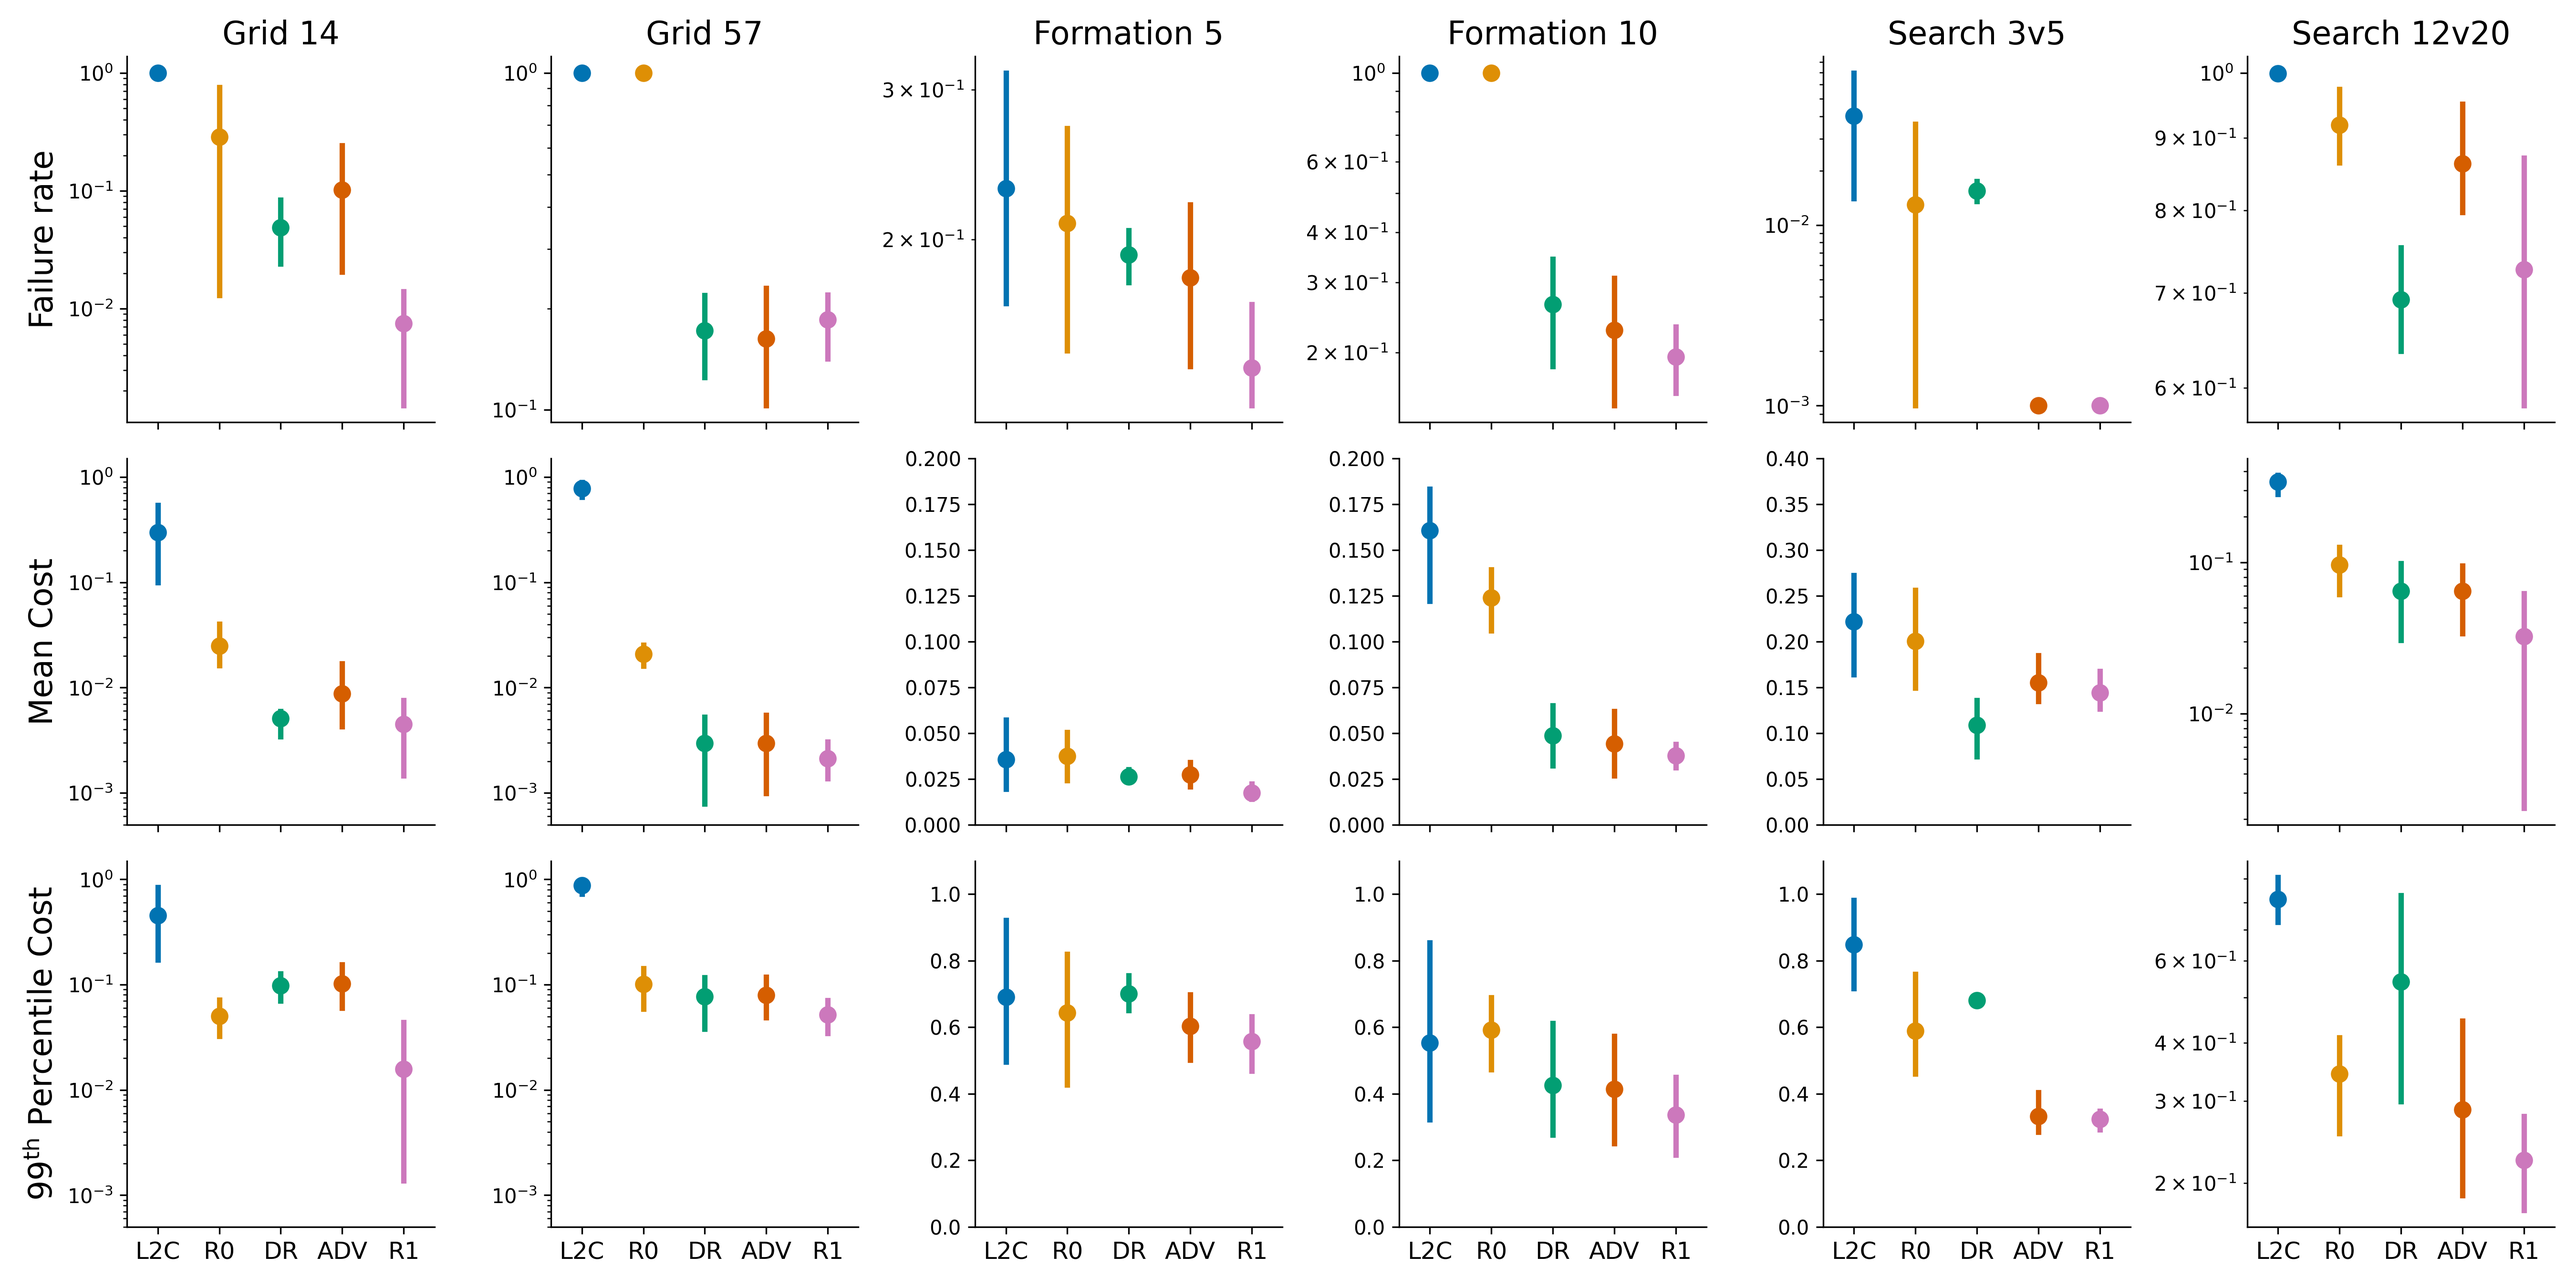
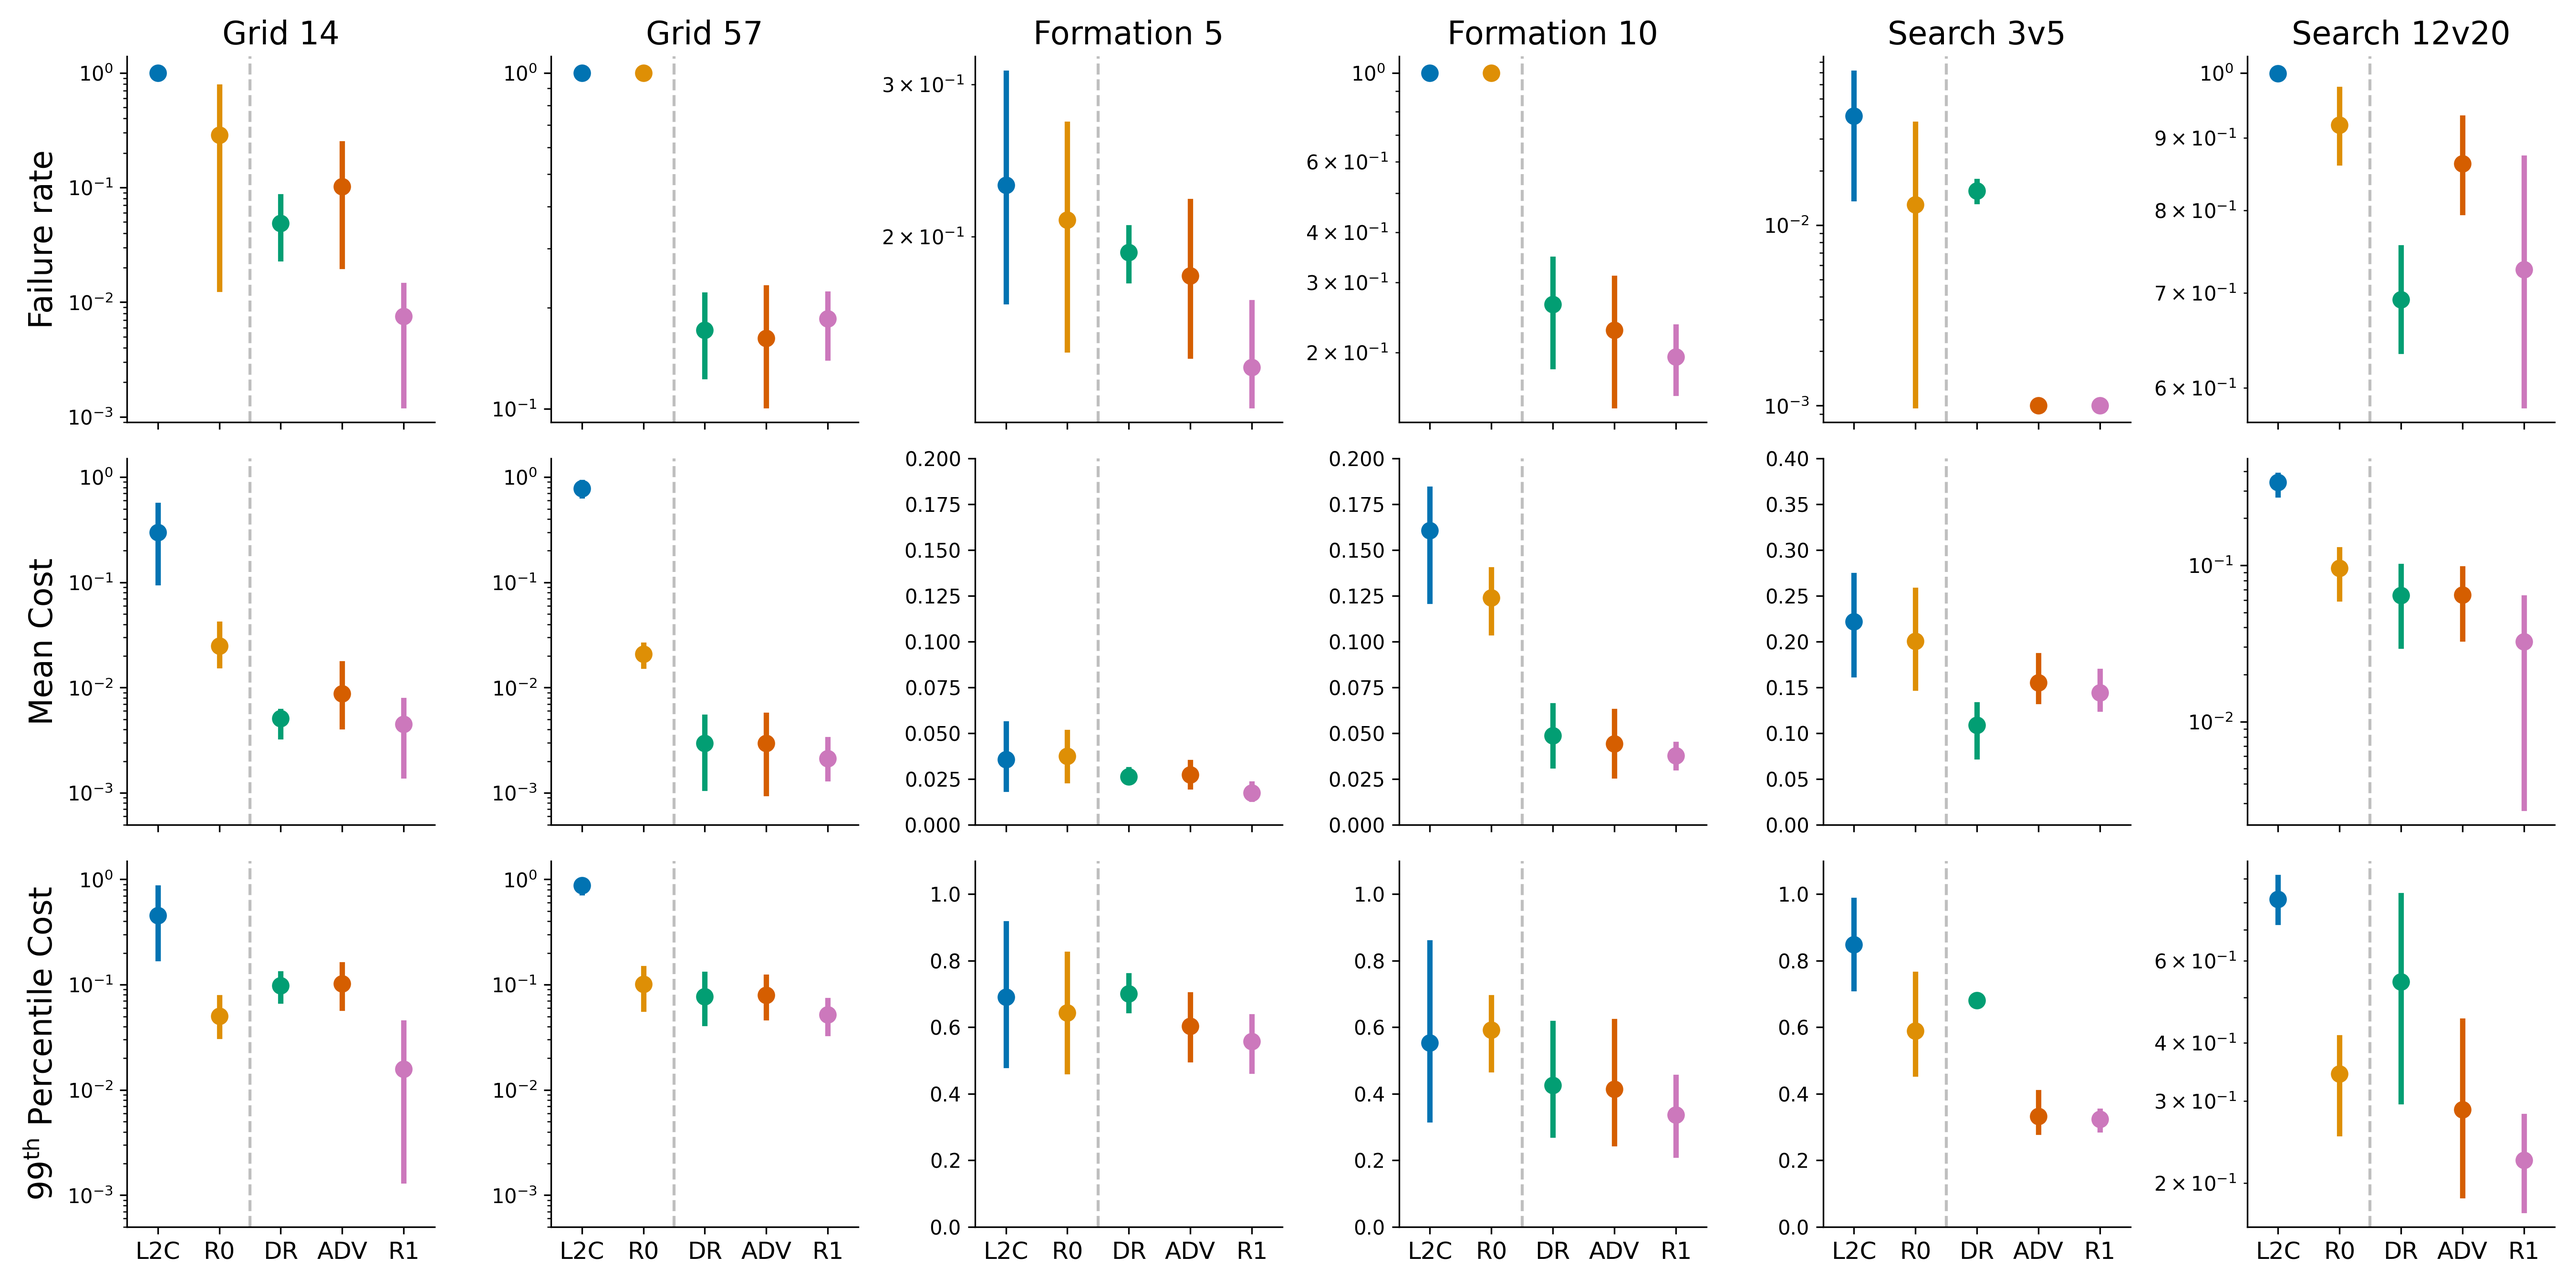
Make plots

Changed region(s): [[0.3422, 0.0622, 0.3733, 0.0933]]

diff --git a/architect/experiments/make_plots_vision.py b/architect/experiments/make_plots_vision.py
@@ -74,6 +74,7 @@ if __name__ == "__main__":
     group_display_names = {
         "reinforce-predict-repair": "L2C",
         "rmh-predict-repair": "R0",
+        # "original": "$\theta_0$ (DR)",
         "gd": "ADV",
         "mala-predict-repair": "R1",
     }
@@ -127,8 +128,19 @@ if __name__ == "__main__":
                 | {name: run.summary.get(metric) for metric, name in metrics.items()}
             )
 
-            # TODO get statistic for DR/original policy by getting the history
-            # at the first step
+            # # Get statistic for DR/original policy by getting the history
+            # # at the first step
+            # metric_history = run.history(samples=100)
+            # summary_stats.append(
+            #     {
+            #         "project": project_name,
+            #         "group": "original",
+            #     }
+            #     | {
+            #         name: metric_history.iloc[0][metric]
+            #         for metric, name in metrics.items()
+            #     }
+            # )
 
     stats_df = pd.DataFrame(summary_stats)
 
@@ -239,6 +251,10 @@ if __name__ == "__main__":
     #     for ax in g.axes[i, :]:
     #         ax.axhline(1, color="black", linestyle="--")
     #         ax.set_yscale("linear")
+
+    for row in g.axes:
+        for ax in row:
+            ax.axvline(1.5, color="grey", linestyle="--", alpha=0.5)
 
     # Label y axes
     for ax, metric_name in zip(g.axes[:, 0], stats_df["metric"].unique()):

diff --git a/architect/experiments/make_plots_nonvision.py b/architect/experiments/make_plots_nonvision.py
@@ -283,6 +283,11 @@ if __name__ == "__main__":
     #         ax.axhline(1, color="black", linestyle="--")
     #         ax.set_yscale("linear")
 
+    # Add a vertical dashed grey line between gradient-free and gradient-based
+    for row in g.axes:
+        for ax in row:
+            ax.axvline(1.5, color="grey", linestyle="--", alpha=0.5)
+
     # Label y axes
     for ax, metric_name in zip(g.axes[:, 0], stats_df["metric"].unique()):
         ax.set_ylabel(metric_name)
